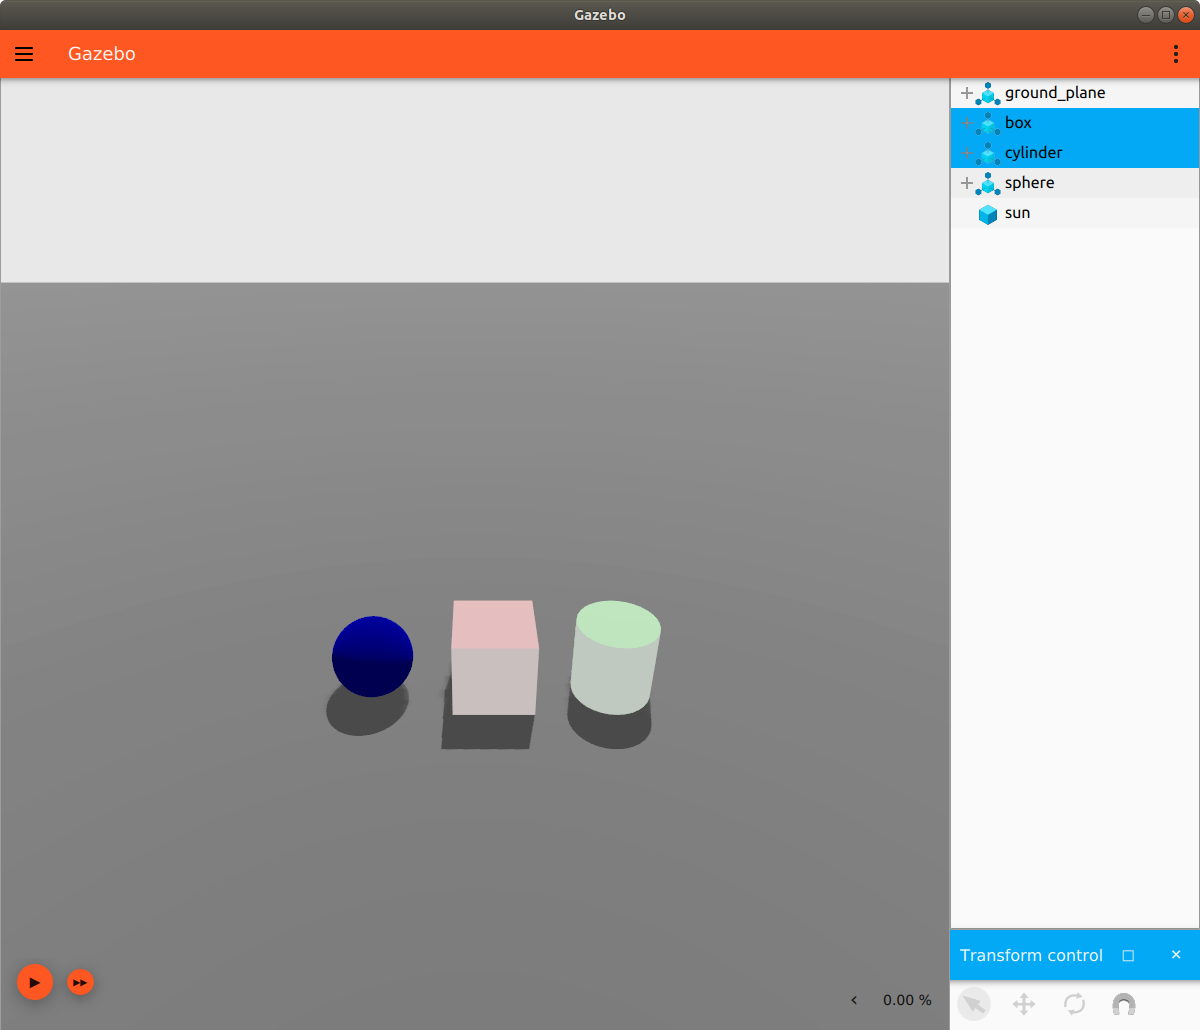
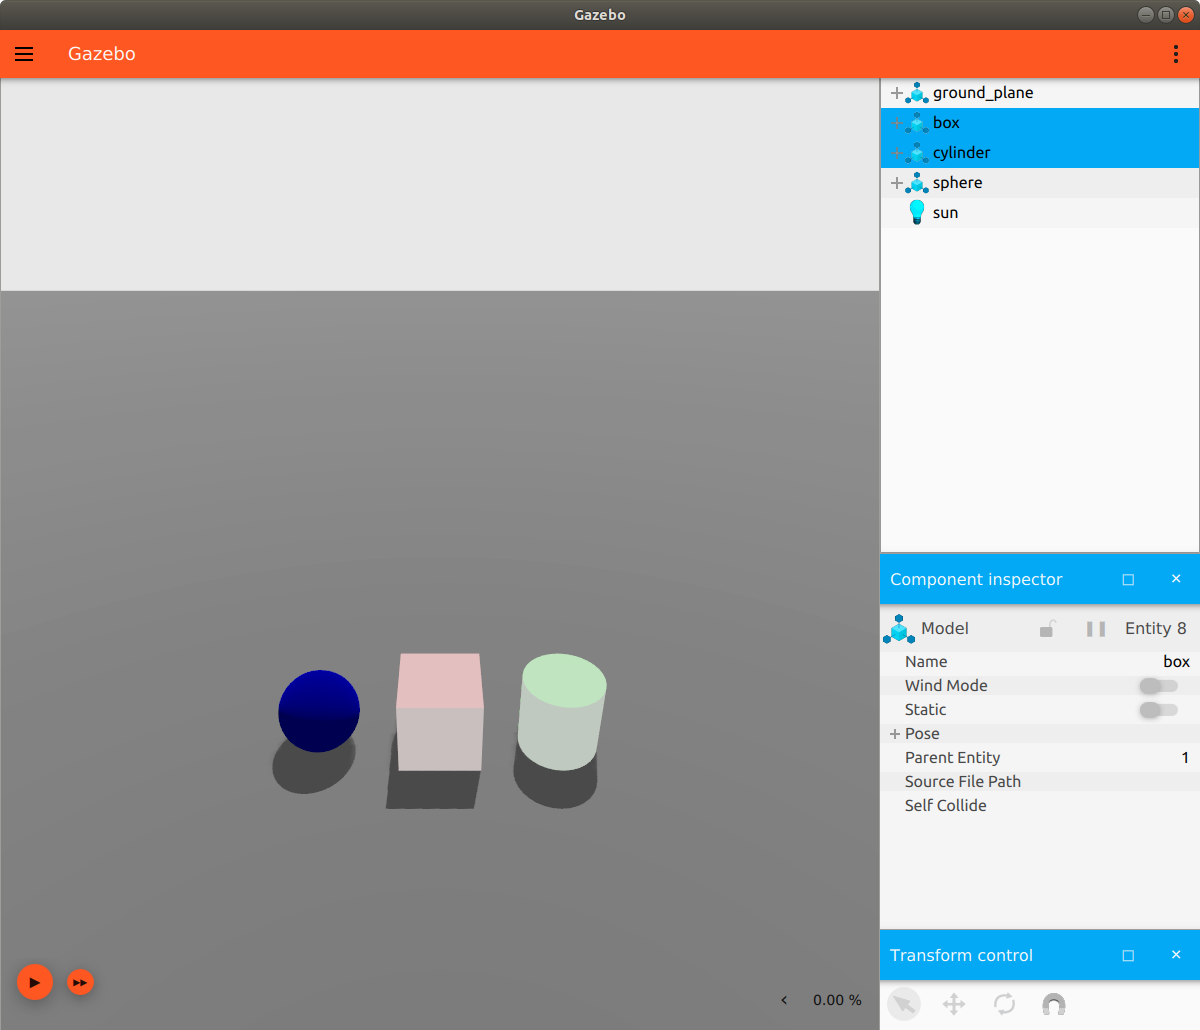
new pictures

diff --git a/blueprint/Manipulating_models.md b/blueprint/Manipulating_models.md
@@ -1,11 +1,13 @@
 # Manipulating Models
 
-This tutorial will walk you through using two important plugins vital to model and scene manipulation in the Ignition GUI.
+This tutorial will walk you through using various plugins to assist model and scene manipulation in the Ignition GUI.
 
 The Transform Control plugin is a combination of keybindings and transform control options: selection, translation, rotation and custom snap values.
 This chart of [Ignition's keyboard shortcuts](/blueprint/hotkeys) may be helpful for this tutorial.
 
 The View Angle plugin allows you to quickly and easily adjust the direction from which your scene faces an entity in the simulation.
+
+The Component Inspector plugin displays a variety of of object attributes.
 
 ## Prerequisites
 
@@ -15,14 +17,14 @@ Start by getting Ignition up and running with a sample world:
 ign gazebo shapes.sdf
 ```
 
-[Understanding the GUI](/blueprint/GUI_tutorial) explains the basics of navigating the Ignition GUI.
+The previous tutorial, [Understanding the GUI](/blueprint/GUI_tutorial), explains the basics of navigating the Ignition GUI.
 
 ## Transform Control
 
 The `shapes.sdf` file contains the Transform Control plugin, which is why the plugin is already at the bottom of the screen when you start.
 If you wanted to use the plugin in a world where it isn't already included, you would open the plugin drop-down menu and select it from the list:
 
-![Choosing Transform Control from the plugin list](img/plugin.png)
+![Choosing Transform Control from the plugin list](img/plugins.png)
 
 ### Select Mode
 
@@ -39,7 +41,7 @@ You can always return to selection mode from any other mode by pressing `Esc`.
 
 ### Translate Mode
 
-Enter into translate mode by clicking the second icon from the left in the Transform Control plugin, or by hitting the keyboard short cut: `T`.
+Enter into translate mode by clicking the second icon from the left in the Transform Control plugin, or by hitting the keyboard shortcut: `T`.
 
 ![Translate mode icon](img/translate_icon.png)
 
@@ -55,7 +57,7 @@ Holding down any one of the `X`, `Y` or `Z` keys, or a combination of them, whil
 
 ### Rotate Mode
 
-Enter into rotate mode by clicking the third icon from the left in the Transform Control plugin, or by hitting the keyboard short cut: `R`.
+Enter into rotate mode by clicking the third icon from the left in the Transform Control plugin, or by hitting the keyboard shortcut: `R`.
 
 ![Rotate mode icon](img/rotate_icon.png)
 
@@ -89,18 +91,37 @@ By default, the snap value is 1 meter for translation and 45° for rotation.
 
 You can customize snap values by clicking on the furthest-right magnet icon in the Transform Control plugin.
 
+![Custom snap values](img/custom_snap.png)
+
 Try holding `Shift` and `Ctrl` simultaneously to snap a model along the world frame is if isn't already aligned.
+
+## Component Inspector
+
+The Component Inspector plugin is included in `shapes.sdf`.
+The plugin displays the gravitational and magnetic fields of your world.
+You can select an entity to display some of its attributes, including its pose, whether or not wind is acting on it, whether or not it's static, and more.
+
+Expanding the `Pose` attribute will show the coordinate values for a selected object.
+The values will update as the object is moved around (translated or rotated).
+
+![Updating pose values](img/pose_value.gif)
+
+You can also pause the plugin so an object's pose values don't update in the inspector while the simulation is playing.
+
+Additionally, the Component Inspector can be locked on one object so you can open another Component Inspector to simultaneously observe another object.
+
+![Two Component Inspectors](img/pose2.gif)
 
 ## View Angle
 
-The View Angle plugin does not come pre-loaded with ``shapes.sdf``, so you will have to select it from the plugins button on the toolbar.
+The View Angle plugin does not come pre-loaded with `shapes.sdf`, so you will have to select it from the plugins button on the toolbar.
 
 You can choose which angle you want to view the scene from, relative to a selected entity or the world frame if no entity is selected.
 The home button will return you to the original view pose from when the scene was loaded.
 
 You can also select multiple entities to face simultaneously from each view angle.
 
-![View angle for multiple entities](img/View_angle.gif)
+![View angle for multiple entities](img/view.gif)
 
 ## Next Up
 

diff --git a/blueprint/GUI_tutorial.md b/blueprint/GUI_tutorial.md
@@ -15,11 +15,17 @@ ign gazebo shapes.sdf
 
 `ign gazebo` will run the latest version of Ignition you have installed.
 You can check if you have more than one version of Ignition installed by running `ign gazebo --versions`.
+For example, if you have Blueprint and Citadel installed, `--versions` might return:
+
+```bash
+3.0.0
+2.16.0
+```
 
 To ensure you're working with Blueprint, include the `--force-version` directive when starting up:
 
 ```bash
-ign gazebo --force-version 2.15.0 shapes.sdf
+ign gazebo --force-version 2.16.0 shapes.sdf
 ```
 
 ## GUI
@@ -43,8 +49,8 @@ When you select one, its interface will appear in the right panel.
 
 ### The Right Panel
 
-`shapes.sdf` contains two plugins that you see in the right panel upon starting.
-Transform Control is at the bottom of the panel, and at the top is the entity tree.
+`shapes.sdf` contains three plugins that you see in the right panel upon starting.
+At the top is the Entity Tree, followed by the Component Inspector, and then Transform Control.
 
 Everything in a simulation is considered an "entity".
 In `shapes.sdf`, the entities listed are the ground plane, each of the shape models, and the sun.
@@ -52,7 +58,7 @@ In `shapes.sdf`, the entities listed are the ground plane, each of the shape mod
 Items in the list can be expanded to reveal their links, as well as corresponding visuals and collisions, and joints, if they exist.
 
 You can select entities in the simulation by clicking on their names in the entity tree.
-You can also hold `ctrl` and click to select multiple.
+You can also hold `Ctrl` and click to select multiple.
 
 ![Selecting multiple entities from the entity tree](img/entity_select.png)
 

diff --git a/blueprint/Model_insertion_fuel.md b/blueprint/Model_insertion_fuel.md
@@ -20,9 +20,10 @@ Head over and browse the available content.
 
 ![Fuel models preview](img/fuel.png)
 
-Click on any one of the thumbnails, for example the [X2 UGV](https://app.ignitionrobotics.org/openrobotics/fuel/models/SOPHISTICATED_ENGINEERING_X2_SENSOR_CONFIG_1).
+Click on any one of the thumbnails, or use the search bar.
+For example, let's find the [Vent](https://app.ignitionrobotics.org/openrobotics/fuel/models/Vent).
 
-![X2 UCV](img/X2.png)
+![Vent](img/vent_detail.png)
 
 Note that some of the model files are quite large and will take lots of time to download into your world.
 Check that the file size on the right is reasonable before moving on.
@@ -32,9 +33,9 @@ Check that the file size on the right is reasonable before moving on.
 The only thing left to do is drag and drop.
 Click and hold the `Drag me!` button and do just that: drag your mouse into the GUI scene area.
 
-![Drag and drop](img/dragdrop.gif)
+![Drag and drop](img/vent.gif)
 
-Now you can add more models, or even load in the Transform Control or View Angle plugins to interact with the model the same way you could with the shapes in the previous tutorial.
+Now you can add more models, or even load in any one of the plugins you learned about to interact with the model the same way you could with the shapes in the previous tutorial.
 
 If you prefer to add a Fuel model permanently to an `sdf` file, you can just as easily download the code by clicking the download-arrow icon to the right of the model's image.
 
